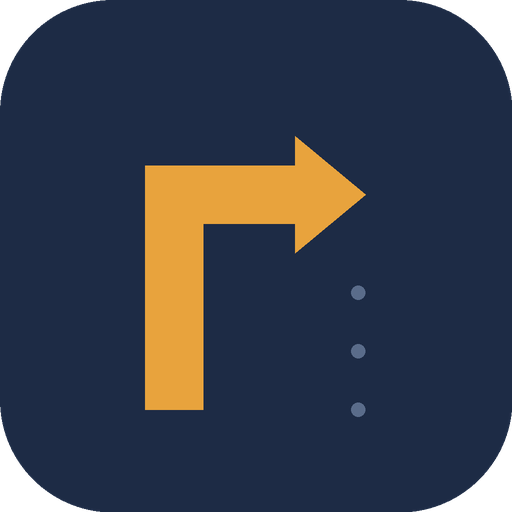
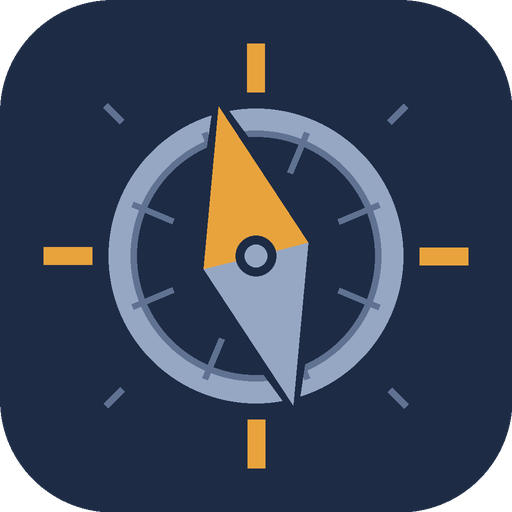
アイコンを刷新（運命の輪＋自転車ホイール＋方位磁針）
タロットの「運命の輪」は縁に文字が並ぶ8輻の車輪で、その構造が
コンパスのベゼル目盛りと自転車のスポーク8本にそのまま重なる。
3つのモチーフを同じ図形の上で成立させた。

小さいサイズでは針が主役になるよう調整している（16pxで針の画素が
0.8%→3.1%）。細かい目盛りは潰れて濁るだけなので24本から8本に減らし、
針はスポークと重なっても輪郭が立つよう下地色の縁を敷いている。

diff --git a/make_icon.py b/make_icon.py
@@ -1,9 +1,14 @@
 # -*- coding: utf-8 -*-
 """紹介ページ用のアイコンを生成する。
 
-キューシートの矢印（右折）をモチーフにした。外部の画像素材は使わない。
+タロットの「運命の輪」を下敷きに、自転車のホイール（8本スポーク）と
+方位磁針を重ねた図案。運命の輪の縁に並ぶ文字を、コンパスのベゼルの
+目盛りに読み替えて、ひとつの図形にまとめている。
+外部の画像素材は使わず、ここで描く。
+
     py make_icon.py
 """
+import math
 import os
 
 from PIL import Image, ImageDraw
@@ -12,36 +17,65 @@ HERE = os.path.dirname(os.path.abspath(__file__))
 ASSETS = os.path.join(HERE, 'assets')
 S = 1024
 
-NAVY = (29, 43, 69)       # 下地（夜のブルベ）
-AMBER = (232, 163, 61)    # 矢印（反射材の色）
+NAVY = (29, 43, 69)        # 下地（夜のブルベ）
+RIM = (150, 167, 196)      # ホイール・針の南
+RIM_DIM = (96, 114, 146)   # スポーク・細かい目盛り
+AMBER = (232, 163, 61)     # 針の北・四方位の目盛り
+NEEDLE_TILT = -14          # 針の傾き（真上だと硬いので少し振る）
+
+
+def circle(d, cx, cy, r, **kw):
+    d.ellipse((cx - r, cy - r, cx + r, cy + r), **kw)
+
+
+def polar(cx, cy, r, deg):
+    a = math.radians(deg)
+    return (cx + math.cos(a) * r, cy + math.sin(a) * r)
 
 
 def draw(img):
     d = ImageDraw.Draw(img)
-    r = int(S * 0.22)
-    d.rounded_rectangle((0, 0, S, S), radius=r, fill=NAVY)
+    d.rounded_rectangle((0, 0, S, S), radius=int(S * 0.22), fill=NAVY)
+    cx = cy = S * 0.5
 
-    # 右折の矢印：下から上がって右へ曲がる
-    w = int(S * 0.115)                     # 線の太さ
-    x0, y0 = int(S * 0.34), int(S * 0.80)  # 下端
-    y1 = int(S * 0.38)                     # 曲がる高さ
-    x1 = int(S * 0.60)                     # 右へ伸ばす先
+    # ---- ベゼルの方位目盛り（運命の輪の縁の文字を目盛りに読み替える）----
+    # 細かい目盛りは小さいサイズで潰れて濁るだけなので、4方位を太く短く置く
+    r_out = S * 0.415
+    for k in range(8):
+        deg = k * 45 - 90
+        cardinal = (k % 2 == 0)
+        r_in = r_out - (S * 0.095 if cardinal else S * 0.045)
+        d.line([polar(cx, cy, r_in, deg), polar(cx, cy, r_out, deg)],
+               fill=AMBER if cardinal else RIM_DIM,
+               width=int(S * (0.036 if cardinal else 0.014)))
 
-    d.line([(x0, y0), (x0, y1)], fill=AMBER, width=w)
-    d.line([(x0 - w // 2, y1), (x1, y1)], fill=AMBER, width=w)
-    # 角を丸める
-    d.ellipse((x0 - w // 2, y1 - w // 2, x0 + w // 2, y1 + w // 2), fill=AMBER)
+    # ---- ホイール（タイヤ＋リム）----
+    R = S * 0.288
+    tire = int(S * 0.046)
+    circle(d, cx, cy, R, outline=RIM, width=tire)
+    circle(d, cx, cy, R - tire * 0.95, outline=RIM_DIM, width=int(S * 0.013))
 
-    # 矢じり
-    head = int(S * 0.115)
-    d.polygon([(x1 + head, y1), (x1 - head * 0.2, y1 - head),
-               (x1 - head * 0.2, y1 + head)], fill=AMBER)
+    # ---- スポーク8本（運命の輪と同じ本数）----
+    for k in range(8):
+        deg = k * 45 + 22.5
+        d.line([polar(cx, cy, S * 0.175, deg), polar(cx, cy, R - tire * 0.6, deg)],
+               fill=RIM_DIM, width=int(S * 0.012))
 
-    # 距離の目盛りに見立てた点（キューシートらしさ）
-    for i in range(3):
-        cy = int(S * 0.80) - i * int(S * 0.115)
-        d.ellipse((int(S * 0.70) - 14, cy - 14, int(S * 0.70) + 14, cy + 14),
-                  fill=(90, 108, 138))
+    # ---- 方位磁針 ----
+    # 針が読めなければコンパスにならないので、ここを主役にする。
+    # 下地の色で一回り大きく描いてから重ねると、スポークと重なっても輪郭が立つ。
+    L = S * 0.300          # 針の長さ（中心から先端まで）
+    W = S * 0.105          # 針の最大幅
+    for grow, colors in ((S * 0.030, (NAVY, NAVY)), (0, (AMBER, RIM))):
+        for sign, color in ((1, colors[0]), (-1, colors[1])):   # 北＝アンバー
+            tip = polar(cx, cy, (L + grow) * sign, NEEDLE_TILT - 90)
+            left = polar(cx, cy, W + grow, NEEDLE_TILT - 90 + 90 * sign)
+            right = polar(cx, cy, W + grow, NEEDLE_TILT - 90 - 90 * sign)
+            d.polygon([tip, left, (cx, cy), right], fill=color)
+
+    # 軸受け
+    circle(d, cx, cy, S * 0.040, fill=NAVY)
+    circle(d, cx, cy, S * 0.022, fill=RIM)
 
 
 img = Image.new('RGBA', (S, S), (0, 0, 0, 0))
@@ -53,7 +87,6 @@ img.save(os.path.join(ASSETS, 'favicon.ico'), sizes=[(48, 48), (32, 32), (16, 16
 print('書き出し:', os.path.join(ASSETS, 'icon.png'))
 print('書き出し:', os.path.join(ASSETS, 'favicon.ico'))
 
-# 確認用の実寸プレビュー
 sizes = [256, 128, 64, 48, 32, 16]
 strip = Image.new('RGBA', (sum(sizes) + 20 * len(sizes), 280), (250, 250, 250, 255))
 x = 10
@@ -63,3 +96,18 @@ for s in sizes:
     x += s + 20
 strip.save(os.path.join(HERE, 'icon_preview.png'))
 print('確認用:', os.path.join(HERE, 'icon_preview.png'))
+
+# 小さいサイズでも各要素が残っているかを画素で確認する
+print('\n--- 小サイズでの見え方（色の占める割合）---')
+for s in (48, 32, 16):
+    im = img.resize((s, s), Image.LANCZOS).convert('RGB')
+    px = list(im.get_flattened_data()) if hasattr(im, 'get_flattened_data') else list(im.getdata())
+
+    def near(c, t, tol):
+        return sum(abs(a - b) for a, b in zip(c, t)) < tol
+
+    # 混色された画素も拾うため、暖色寄り（赤−青が大きい）かどうかで数える
+    warm = sum(1 for c in px if c[0] - c[2] > 40)
+    steel = sum(1 for c in px if near(c, RIM, 130))
+    print(f'  {s:>3}px: 針の北・方位目盛り(暖色) {warm / len(px) * 100:4.1f}%  '
+          f'ホイール・針の南(スチール) {steel / len(px) * 100:4.1f}%')
